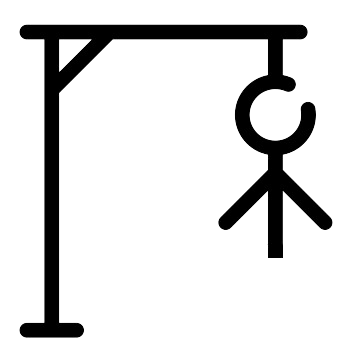
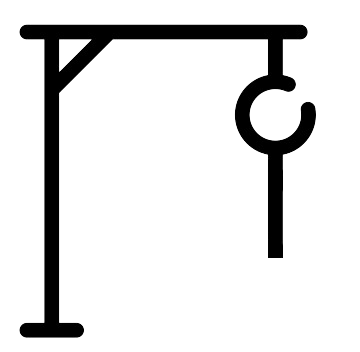
correção da numeração das imagens da forca

Changed region(s): [[0.6111, 0.4688, 0.9472, 0.6562]]

diff --git a/FormJogo.cs b/FormJogo.cs
@@ -30,9 +30,9 @@ namespace JogoDaForca
             // lista de palavras dos temas
             Dictionary<string, List<string>> temas = new Dictionary<string, List<string>>
             {
-                { "Frutas", new List<string> { "banana", "tangerina", "laranja", "uva" } },
-                { "Animais", new List<string> { "gato", "lagarto", "elefante", "caracol" } },
-                { "Cores", new List<string> { "vermelho", "azul", "amarelo", "verde" } }
+                { "Frutas", new List<string> { "banana", "tangerina", "laranja", "uva", "abacate" } },
+                { "Animais", new List<string> { "gato", "lagarto", "elefante", "caracol", "cavalo" } },
+                { "Cores", new List<string> { "vermelho", "azul", "amarelo", "verde", "rosa" } }
             };
 
             // escolher uma palavra aleatoria do tema escolhido
@@ -132,17 +132,18 @@ namespace JogoDaForca
             // Suponha que o PictureBox se chame pictureBoxTentativas.
             // Você pode criar um nome de arquivo de imagem com base no número de tentativas restantes.
             int numeroTentativas = tentativasRestantes; // Obtém o número atual de tentativas.
-            string imagens = $"tentativas_{numeroTentativas}.png";
+            string imagens = $"..\\..\\imagens\\tentativas_{numeroTentativas}.png";
 
             // Verifique se o arquivo de imagem existe antes de atribuí-lo ao PictureBox.
             if (File.Exists(imagens))
             {
                 pictureBox1.Image = Image.FromFile(imagens);
+                pictureBox1.SizeMode= PictureBoxSizeMode.Zoom;
             }
             else
             {
                 // Se a imagem não existir, você pode carregar uma imagem padrão ou exibir uma mensagem de erro.
-                pictureBox1.Image = Image.FromFile("forca.png");
+                pictureBox1.Image = Image.FromFile("..\\..\\imagens\\forca.png");
             }
         }
 
@@ -181,6 +182,11 @@ namespace JogoDaForca
         private void button1_Click(object sender, EventArgs e)
         {
             Application.Exit();
+        }
+
+        private void pictureBox1_Click(object sender, EventArgs e)
+        {
+            
         }
     }
 }

diff --git a/Properties/Resources.Designer.cs b/Properties/Resources.Designer.cs
@@ -63,6 +63,16 @@ namespace JogoDaForca.Properties {
         /// <summary>
         ///   Consulta um recurso localizado do tipo System.Drawing.Bitmap.
         /// </summary>
+        internal static System.Drawing.Bitmap forca {
+            get {
+                object obj = ResourceManager.GetObject("forca", resourceCulture);
+                return ((System.Drawing.Bitmap)(obj));
+            }
+        }
+        
+        /// <summary>
+        ///   Consulta um recurso localizado do tipo System.Drawing.Bitmap.
+        /// </summary>
         internal static System.Drawing.Bitmap homem_enforcado {
             get {
                 object obj = ResourceManager.GetObject("homem_enforcado", resourceCulture);

diff --git a/FormJogo.Designer.cs b/FormJogo.Designer.cs
@@ -107,11 +107,14 @@
             // 
             // pictureBox1
             // 
+            this.pictureBox1.Image = global::JogoDaForca.Properties.Resources.forca;
             this.pictureBox1.Location = new System.Drawing.Point(53, 157);
             this.pictureBox1.Name = "pictureBox1";
             this.pictureBox1.Size = new System.Drawing.Size(279, 240);
+            this.pictureBox1.SizeMode = System.Windows.Forms.PictureBoxSizeMode.Zoom;
             this.pictureBox1.TabIndex = 6;
             this.pictureBox1.TabStop = false;
+            this.pictureBox1.Click += new System.EventHandler(this.pictureBox1_Click);
             // 
             // FormJogo
             // 
